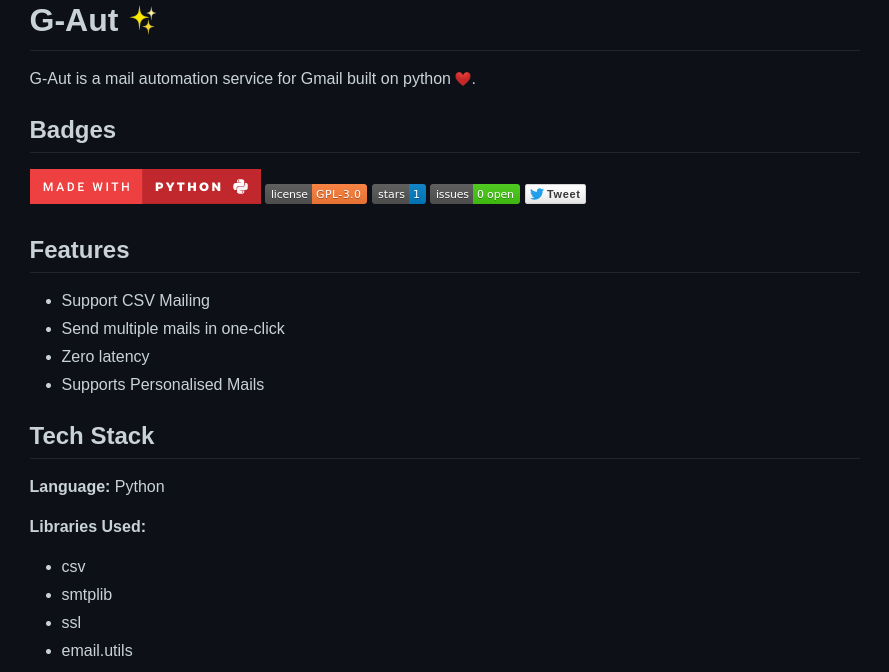
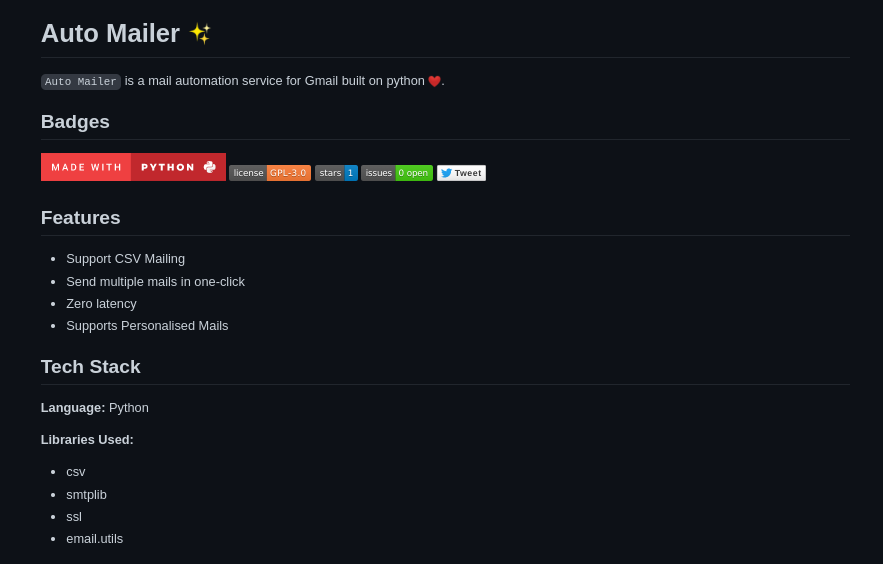
Auto-Mailer Page Added :sparkle:

diff --git a/pages/works/gauth.js b/pages/works/gauth.js
@@ -1,0 +1,50 @@
+import { Container, Badge, Link, List, ListItem, Divider, UnorderedList } from '@chakra-ui/react'
+import { ExternalLinkIcon } from '@chakra-ui/icons'
+import { Title, WorkImage, Meta } from '../../components/work'
+import P from '../../components/paragraph'
+import Layout from '../../components/layouts/article'
+
+const Work = () => {
+    return (
+        <Layout title="Auto-Mailer">
+            <Container maxW='container.sm'>
+                <Title>Auto Mailer <Badge>2021</Badge> </Title>
+                <P>'Auto Mailer' is a mail automation service for Gmail built on python with the following features.
+                    <UnorderedList ml={4} my={2}>
+                        <ListItem>
+                            Support CSV Mailing
+                        </ListItem>
+                        <ListItem>
+                            Send multiple mails in one-click
+                        </ListItem>
+                        <ListItem>
+                            Zero latency
+                        </ListItem>
+                        <ListItem>
+                            Supports Personalised Mails
+                        </ListItem>
+                    </UnorderedList>
+                </P>
+
+                <List ml={4} my={4}>
+                    <ListItem>
+                        <Meta>Rapid-API</Meta>
+                        <Link href="https://rapidapi.com/kanitmann/api/covid-news-live1">https://rapidapi.com/kanitmann/api/covid-news-live1 <ExternalLinkIcon mx="1px" />  </Link>
+                    </ListItem>
+                    <ListItem>
+                        <Meta>Supports</Meta>
+                        <span>Python 3</span>
+                    </ListItem>
+                    <ListItem>
+                        <Meta>Libraries</Meta>
+                        <span>Python, Axios</span>
+                    </ListItem>
+                </List>
+                <Divider />
+                <WorkImage src="/images/gauth.png" alt="News API" />
+            </Container>
+        </Layout>
+    )
+}
+
+export default Work;
